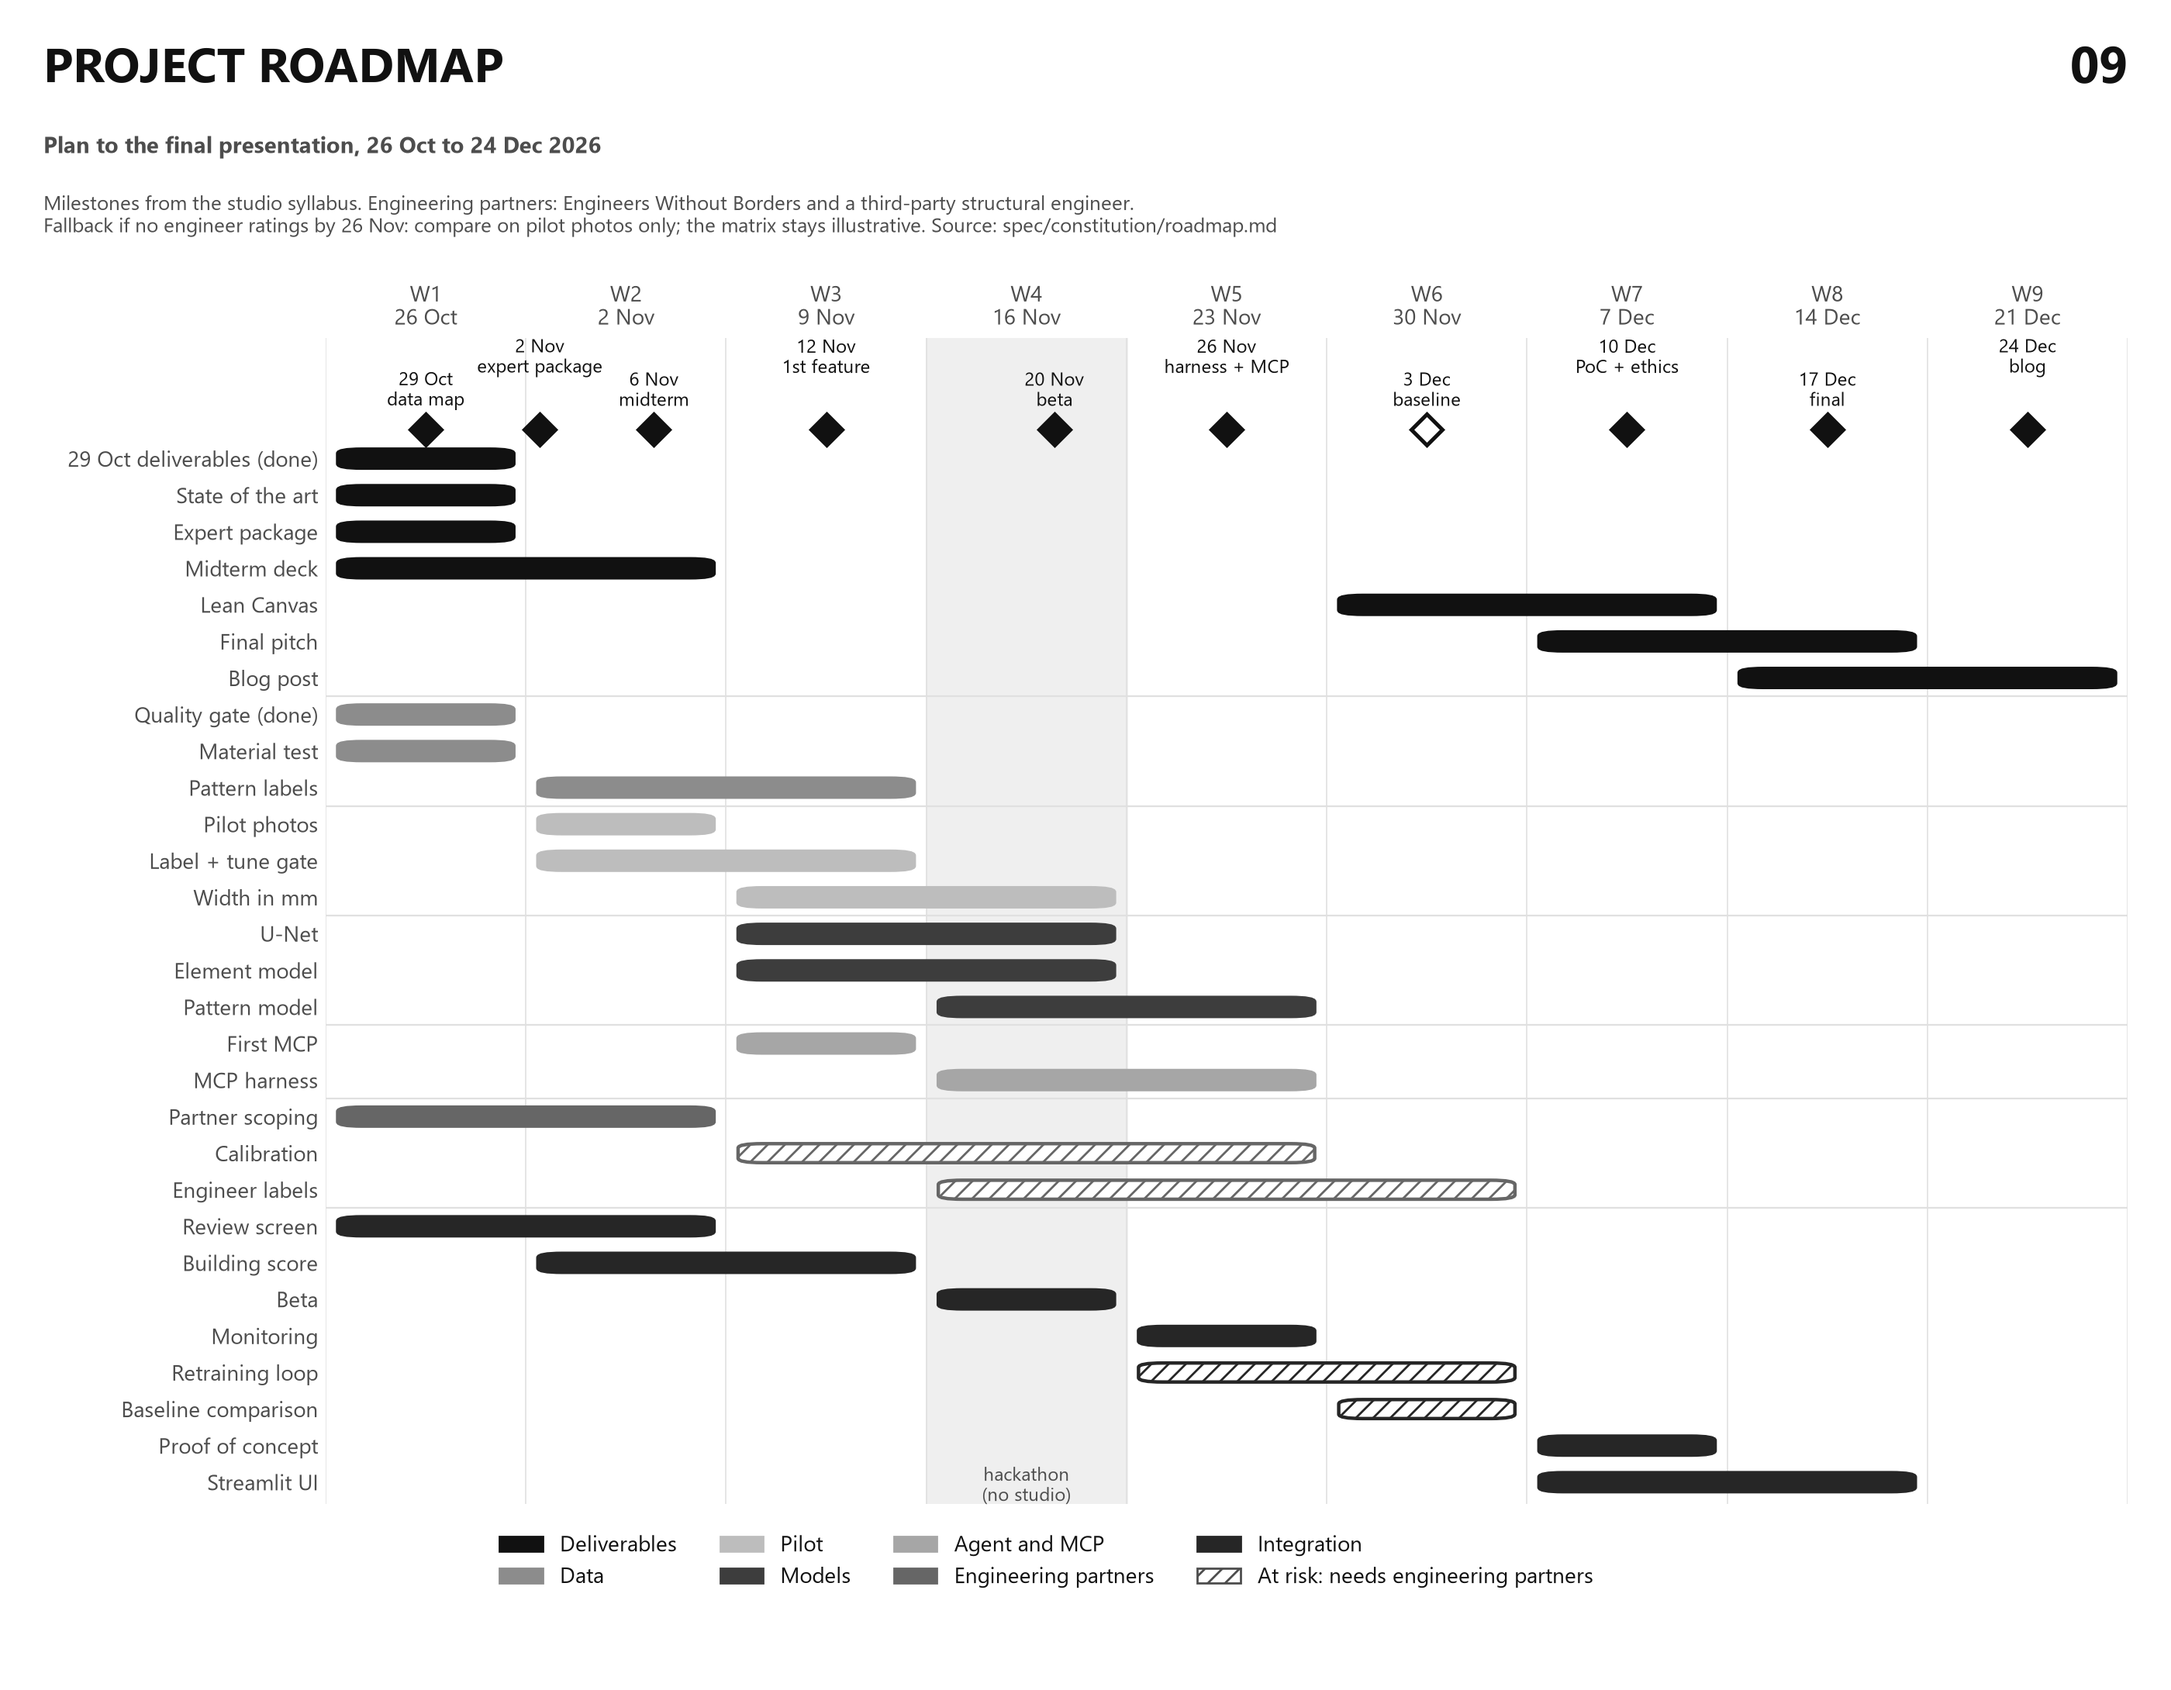
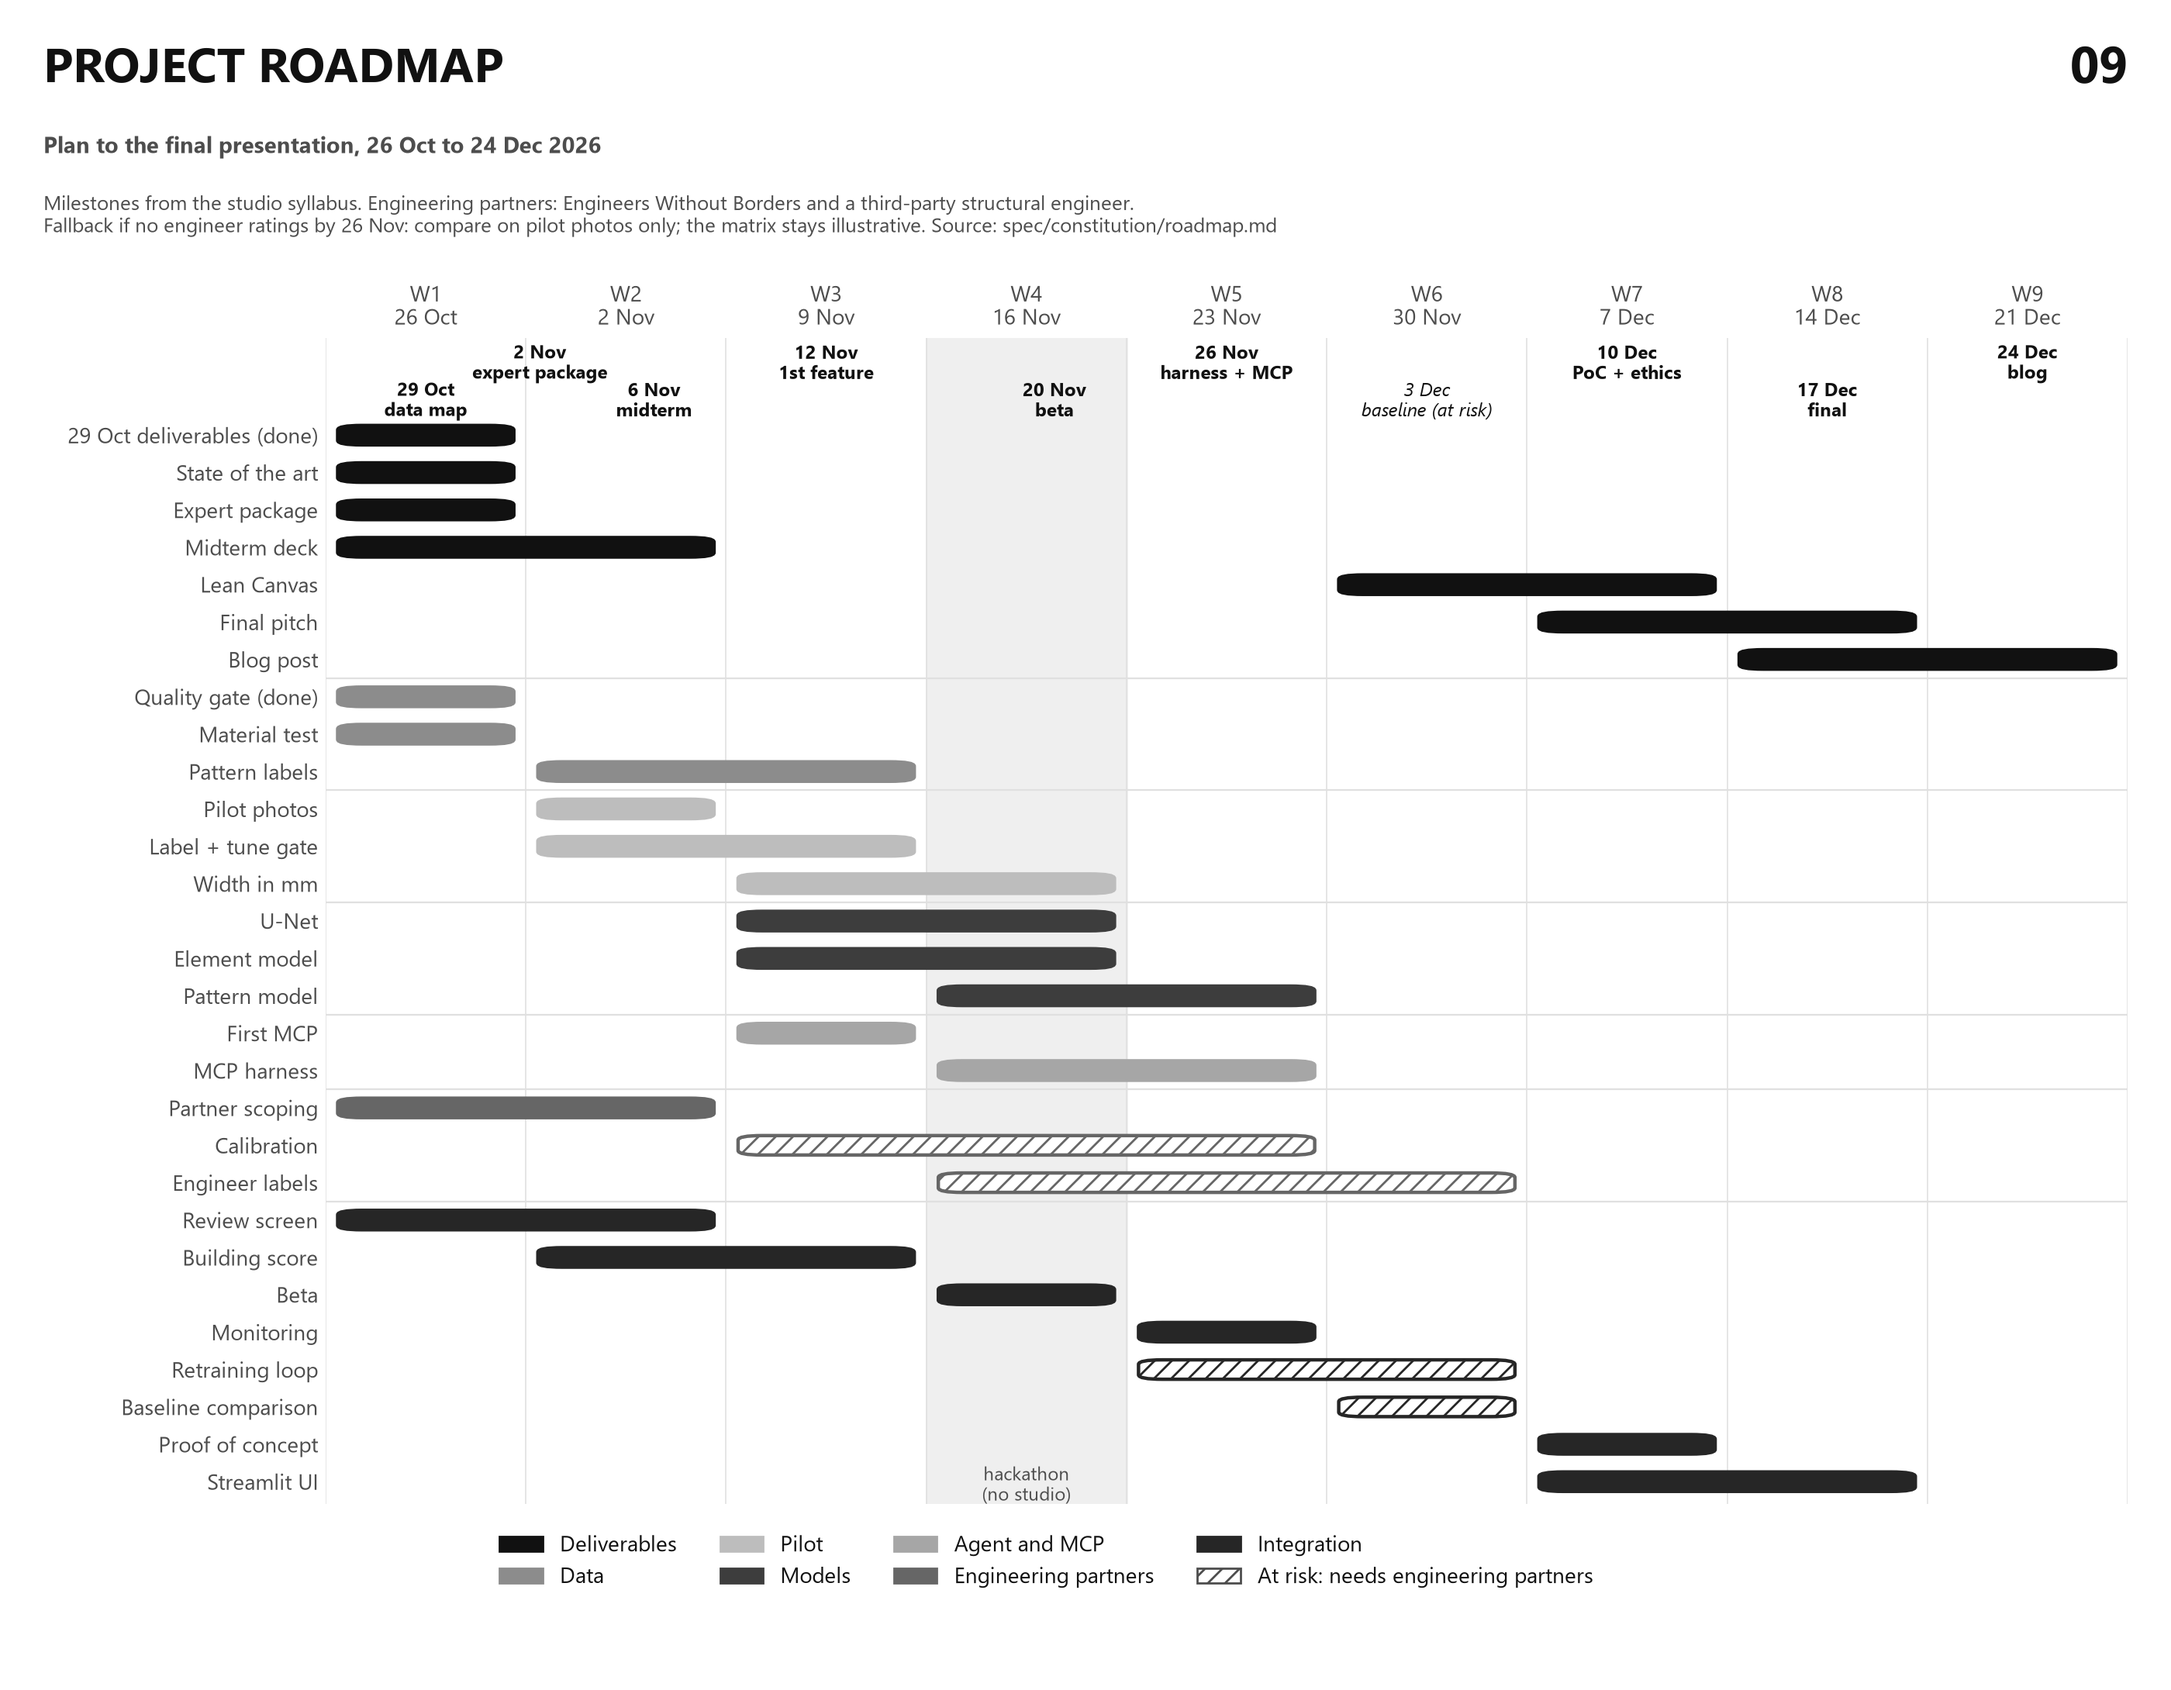
Figure 09: milestone diamonds removed, milestones as bold dates; 3 Dec marked at risk in words

diff --git a/src/viz/figures.py b/src/viz/figures.py
@@ -1022,12 +1022,11 @@ def timeline():
                                     boxstyle="round,pad=0,rounding_size=0.12", zorder=2,
                                     facecolor=colour if not risk else "white", edgecolor=colour,
                                     hatch="///" if risk else None, lw=1.6))
-    for k, (x, label, risk) in enumerate(MILESTONES):
-        ax.plot(x, -0.8, marker="D", ms=10, color=LEVEL["Category 3"] if not risk else "white",
-                markeredgecolor=LEVEL["Category 3"], mew=1.8, zorder=3)
-        ax.text(x, -1.85 if k % 2 == 0 else -2.75, label, ha="center", va="center", fontsize=8.5, color=INK)
+    for k, (x, label, risk) in enumerate(MILESTONES):  # milestones as text only, staggered so they never touch
+        ax.text(x, -0.9 if k % 2 == 0 else -1.9, label + (" (at risk)" if risk else ""), ha="center", va="center",
+                fontsize=8.5, color=INK, weight="bold" if not risk else "normal", style="italic" if risk else "normal")
     ax.set_xlim(0, weeks)
-    ax.set_ylim(n - 0.4, -3.3)
+    ax.set_ylim(n - 0.4, -2.6)
     ax.set_xticks([w + 0.5 for w in range(weeks)], [f"W{w + 1}\n{d}" for w, d in enumerate(WEEK_STARTS)])
     ax.set_yticks(range(n), [t[1] for t in PLAN])
     ax.xaxis.tick_top()
